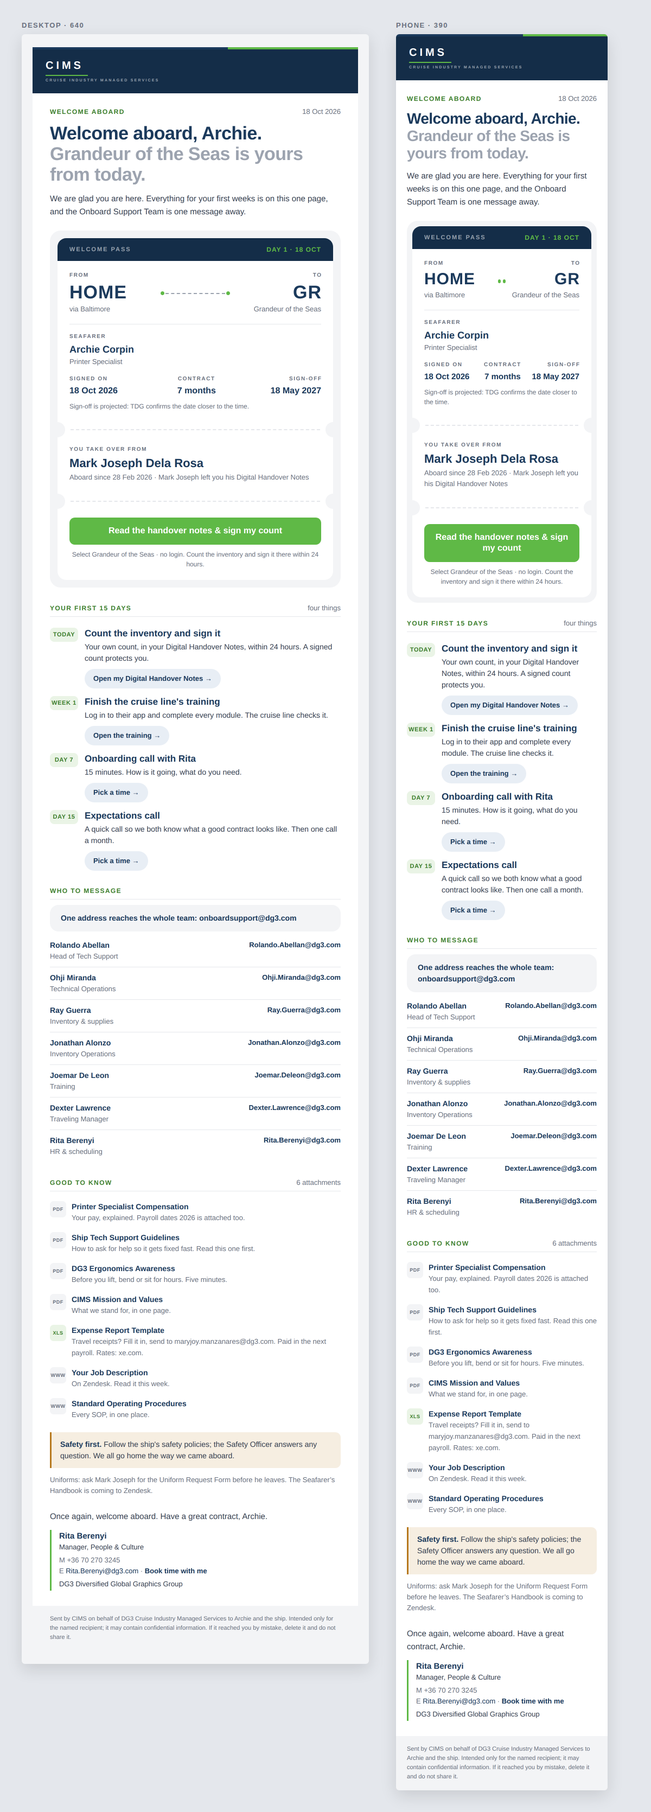
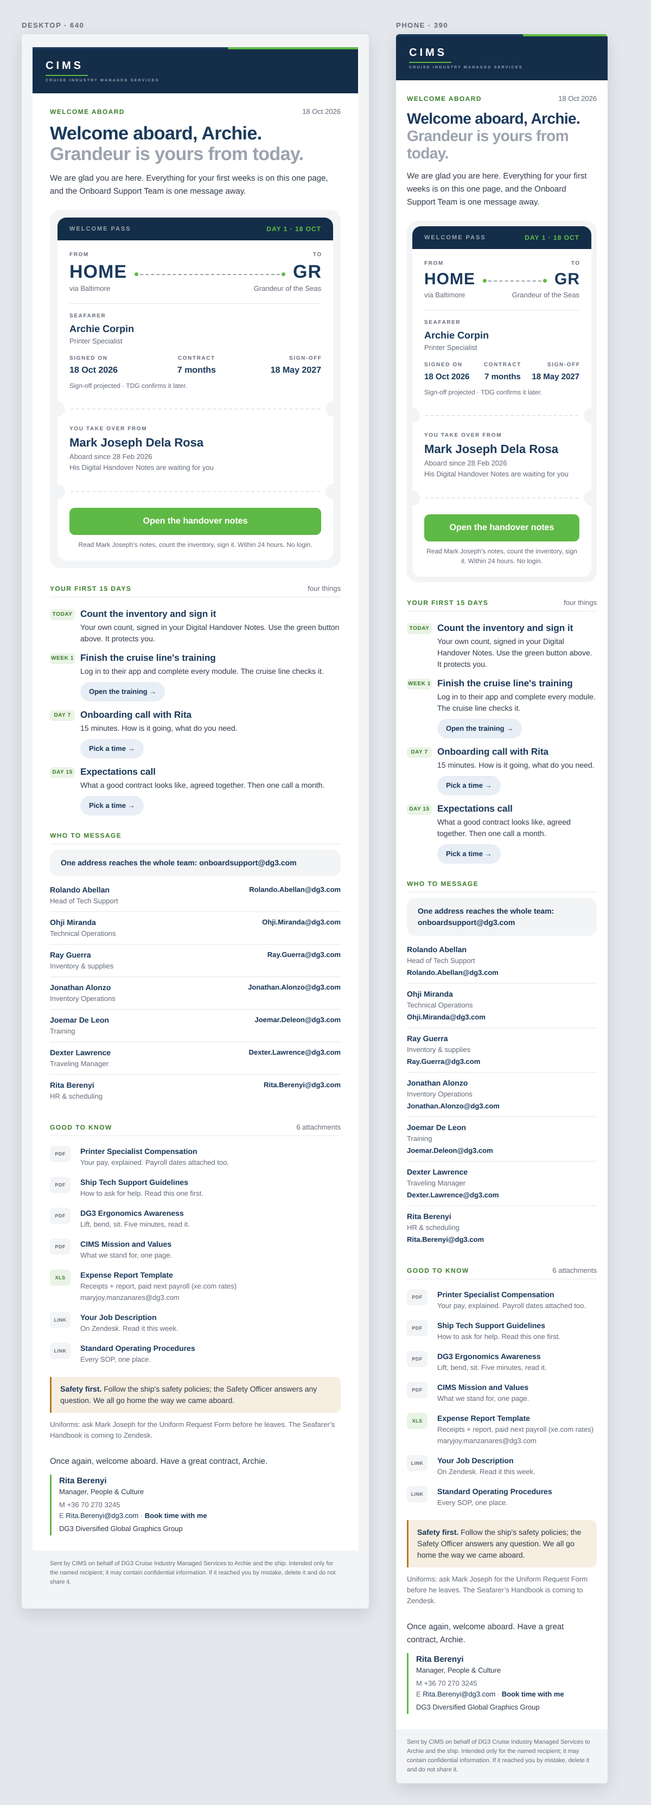
Welcome-aboard mock-up: second cut (route row, one column, phone stacking, shorter lines)
Claude-Session: https://claude.ai/code/session_01EuYojF5BUGVv2pCavfTq2y

diff --git a/docs/mockups/welcome_20261019/welcome.html b/docs/mockups/welcome_20261019/welcome.html
@@ -6,7 +6,7 @@
 <style>
  body{margin:0;padding:0;width:100%!important}table{border-collapse:collapse}
  a[x-apple-data-detectors]{color:inherit!important;text-decoration:none!important}
- @media only screen and (max-width:600px){.frame{padding:0!important}.px{padding-left:20px!important;padding-right:20px!important}.h1{font-size:28px!important;line-height:32px!important}.passpad{padding:10px!important}.code{font-size:30px!important;line-height:36px!important}.pf .pv{font-size:15px!important}.rside{width:44%!important}.rmid{width:12%!important}}
+ @media only screen and (max-width:600px){.frame{padding:0!important}.px{padding-left:20px!important;padding-right:20px!important}.h1{font-size:28px!important;line-height:32px!important}.passpad{padding:10px!important}.code{font-size:30px!important;line-height:36px!important}.pf .pv{font-size:15px!important}.pn,.pe{display:block!important;width:100%!important;text-align:left!important;padding:0!important}.pe{padding-top:2px!important}}
 </style></head>
 <body style="margin:0;padding:0;background:#F3F4F6;-webkit-text-size-adjust:100%;">
 <div style="display:none;max-height:0;overflow:hidden;mso-hide:all;font-size:1px;line-height:1px;color:#F3F4F6;">Welcome aboard Grandeur of the Seas, Archie. Your first 15 days, who to message, and what to read.</div>
@@ -28,7 +28,7 @@
  <table role="presentation" width="100%" cellpadding="0" cellspacing="0" border="0"><tr>
   <td style="font-family:'DM Sans',Helvetica,Arial,sans-serif;font-size:12px;font-weight:700;letter-spacing:1.4px;color:#3E7F2E;">WELCOME ABOARD</td>
   <td align="right" style="font-family:'DM Sans',Helvetica,Arial,sans-serif;font-size:13px;color:#6B7280;">18 Oct 2026</td></tr></table>
- <div class="h1" style="font-family:'Outfit',Helvetica,Arial,sans-serif;font-size:34px;font-weight:600;letter-spacing:-0.6px;line-height:38px;color:#1B3A5C;padding-top:14px;">Welcome aboard, Archie.<br><span style="color:#9CA3AF;">Grandeur of the Seas is yours from today.</span></div>
+ <div class="h1" style="font-family:'Outfit',Helvetica,Arial,sans-serif;font-size:34px;font-weight:600;letter-spacing:-0.6px;line-height:38px;color:#1B3A5C;padding-top:14px;">Welcome aboard, Archie.<br><span style="color:#9CA3AF;">Grandeur is yours from today.</span></div>
  <div style="font-family:'DM Sans',Helvetica,Arial,sans-serif;font-size:15px;line-height:24px;color:#374151;padding-top:14px;">We are glad you are here. Everything for your first weeks is on this one page, and the Onboard Support Team is one message away.</div>
 </td></tr>
 <tr><td class="px" style="padding:22px 32px 0 32px;">
@@ -39,16 +39,17 @@
     <td style="font-family:'DM Sans',Helvetica,Arial,sans-serif;font-size:11px;font-weight:700;letter-spacing:2px;line-height:16px;color:#95A0AD;">WELCOME PASS</td>
     <td align="right" style="font-family:'DM Sans',Helvetica,Arial,sans-serif;font-size:12px;font-weight:700;letter-spacing:1px;line-height:16px;color:#5FB946;white-space:nowrap;padding-left:14px;">DAY 1 &middot; 18 OCT</td></tr></table></td></tr>
   <tr><td style="padding:20px 22px 0 22px;">
-   <table role="presentation" width="100%" cellpadding="0" cellspacing="0" border="0"><tr>
-    <td class="rside" width="34%" valign="top"><div style="font-family:'DM Sans',Helvetica,Arial,sans-serif;font-size:10px;font-weight:700;letter-spacing:1.6px;color:#6B7280;text-transform:uppercase;line-height:14px;">From</div><div class="code" style="font-family:'Outfit',Helvetica,Arial,sans-serif;font-size:34px;font-weight:700;letter-spacing:1px;color:#1B3A5C;line-height:40px;padding-top:4px;white-space:nowrap;">HOME</div><div style="font-family:'DM Sans',Helvetica,Arial,sans-serif;font-size:13px;line-height:18px;color:#6B7280;padding-top:2px;">via Baltimore</div></td>
-    <td class="rmid" width="32%" valign="top" style="padding:0 10px;"><table role="presentation" width="100%" cellpadding="0" cellspacing="0" border="0" style="margin-top:36px;"><tr><td width="7" height="7" bgcolor="#5FB946" style="background:#5FB946;border-radius:4px;font-size:0;line-height:0;">&nbsp;</td><td style="padding:0 2px;"><div style="border-top:2px dashed #9CA3AF;font-size:0;line-height:0;">&nbsp;</div></td><td width="7" height="7" bgcolor="#5FB946" style="background:#5FB946;border-radius:4px;font-size:0;line-height:0;">&nbsp;</td></tr></table></td>
-    <td class="rside" width="34%" valign="top" align="right" style="text-align:right;"><div style="font-family:'DM Sans',Helvetica,Arial,sans-serif;font-size:10px;font-weight:700;letter-spacing:1.6px;color:#6B7280;text-transform:uppercase;line-height:14px;margin-right:-1.6px;">To</div><div class="code" style="font-family:'Outfit',Helvetica,Arial,sans-serif;font-size:34px;font-weight:700;letter-spacing:1px;color:#1B3A5C;line-height:40px;padding-top:4px;white-space:nowrap;margin-right:-1px;">GR</div><div style="font-family:'DM Sans',Helvetica,Arial,sans-serif;font-size:13px;line-height:18px;color:#6B7280;padding-top:2px;">Grandeur of the Seas</div></td>
-   </tr></table></td></tr>
+   <table role="presentation" width="100%" cellpadding="0" cellspacing="0" border="0">
+    <tr><td width="1%" valign="bottom" style="white-space:nowrap;"><div style="font-family:'DM Sans',Helvetica,Arial,sans-serif;font-size:10px;font-weight:700;letter-spacing:1.6px;color:#6B7280;text-transform:uppercase;line-height:14px;">From</div><div class="code" style="font-family:'Outfit',Helvetica,Arial,sans-serif;font-size:34px;font-weight:700;letter-spacing:1px;color:#1B3A5C;line-height:40px;padding-top:4px;white-space:nowrap;">HOME</div></td>
+     <td valign="bottom" style="padding:0 14px 12px 14px;"><table role="presentation" width="100%" cellpadding="0" cellspacing="0" border="0"><tr><td width="7" height="7" bgcolor="#5FB946" style="background:#5FB946;border-radius:4px;font-size:0;line-height:0;">&nbsp;</td><td style="padding:0 3px;"><div style="border-top:2px dashed #9CA3AF;font-size:0;line-height:0;">&nbsp;</div></td><td width="7" height="7" bgcolor="#5FB946" style="background:#5FB946;border-radius:4px;font-size:0;line-height:0;">&nbsp;</td></tr></table></td>
+     <td width="1%" valign="bottom" align="right" style="text-align:right;white-space:nowrap;"><div style="font-family:'DM Sans',Helvetica,Arial,sans-serif;font-size:10px;font-weight:700;letter-spacing:1.6px;color:#6B7280;text-transform:uppercase;line-height:14px;margin-right:-1.6px;">To</div><div class="code" style="font-family:'Outfit',Helvetica,Arial,sans-serif;font-size:34px;font-weight:700;letter-spacing:1px;color:#1B3A5C;line-height:40px;padding-top:4px;white-space:nowrap;margin-right:-1px;">GR</div></td></tr>
+    <tr><td colspan="3" valign="top"><table role="presentation" width="100%" cellpadding="0" cellspacing="0" border="0"><tr><td valign="top"><div style="font-family:'DM Sans',Helvetica,Arial,sans-serif;font-size:13px;line-height:18px;color:#6B7280;padding-top:2px;">via Baltimore</div></td><td valign="top" align="right" style="text-align:right;padding-left:12px;"><div style="font-family:'DM Sans',Helvetica,Arial,sans-serif;font-size:13px;line-height:18px;color:#6B7280;padding-top:2px;">Grandeur of the Seas</div></td></tr></table></td></tr>
+   </table></td></tr>
   <tr><td style="padding:18px 22px 0 22px;"><div style="border-top:1px solid #E5E7EB;font-size:0;line-height:0;">&nbsp;</div></td></tr>
   <tr><td style="padding:16px 22px 0 22px;"><div style="font-family:'DM Sans',Helvetica,Arial,sans-serif;font-size:10px;font-weight:700;letter-spacing:1.6px;color:#6B7280;text-transform:uppercase;line-height:14px;">Seafarer</div><div style="font-family:'Outfit',Helvetica,Arial,sans-serif;font-size:18px;font-weight:600;color:#1B3A5C;line-height:24px;padding-top:4px;">Archie Corpin</div><div style="font-family:'DM Sans',Helvetica,Arial,sans-serif;font-size:13px;line-height:18px;color:#6B7280;padding-top:2px;">Printer Specialist</div></td></tr>
   <tr><td style="padding:16px 22px 20px 22px;">
    <table role="presentation" width="100%" cellpadding="0" cellspacing="0" border="0"><tr><td class="pf" width="34%" valign="top" align="left" style="text-align:left;padding:0;"><div style="font-family:'DM Sans',Helvetica,Arial,sans-serif;font-size:10px;font-weight:700;letter-spacing:1.6px;color:#6B7280;text-transform:uppercase;line-height:14px;">Signed on</div><div class="pv" style="font-family:'Outfit',Helvetica,Arial,sans-serif;font-size:16px;font-weight:600;color:#1B3A5C;line-height:22px;padding-top:4px;">18 Oct 2026</div></td><td class="pf" width="33%" valign="top" align="center" style="text-align:center;padding:0;"><div style="font-family:'DM Sans',Helvetica,Arial,sans-serif;font-size:10px;font-weight:700;letter-spacing:1.6px;color:#6B7280;text-transform:uppercase;line-height:14px;">Contract</div><div class="pv" style="font-family:'Outfit',Helvetica,Arial,sans-serif;font-size:16px;font-weight:600;color:#1B3A5C;line-height:22px;padding-top:4px;">7 months</div></td><td class="pf" width="33%" valign="top" align="right" style="text-align:right;padding:0;"><div style="font-family:'DM Sans',Helvetica,Arial,sans-serif;font-size:10px;font-weight:700;letter-spacing:1.6px;color:#6B7280;text-transform:uppercase;line-height:14px;margin-right:-1.6px;">Sign-off</div><div class="pv" style="font-family:'Outfit',Helvetica,Arial,sans-serif;font-size:16px;font-weight:600;color:#1B3A5C;line-height:22px;padding-top:4px;">18 May 2027</div></td></tr></table>
-   <div style="font-family:'DM Sans',Helvetica,Arial,sans-serif;font-size:12px;line-height:18px;color:#6B7280;padding-top:8px;">Sign-off is projected: TDG confirms the date closer to the time.</div></td></tr>
+   <div style="font-family:'DM Sans',Helvetica,Arial,sans-serif;font-size:12px;line-height:18px;color:#6B7280;padding-top:8px;">Sign-off projected &middot; TDG confirms it later.</div></td></tr>
   <tr><td style="padding:0;"><table role="presentation" width="100%" cellpadding="0" cellspacing="0" border="0"><tr>
  <td width="14" height="28" bgcolor="#F3F4F6" style="background:#F3F4F6;font-size:0;line-height:0;border-radius:0 14px 14px 0;">&nbsp;</td>
  <td style="padding:0 10px;"><div style="border-top:2px dashed #E5E7EB;font-size:0;line-height:0;">&nbsp;</div></td>
@@ -56,14 +57,14 @@
   <tr><td style="padding:16px 22px 20px 22px;">
    <table role="presentation" width="100%" cellpadding="0" cellspacing="0" border="0"><tr>
     <td valign="top"><div style="font-family:'DM Sans',Helvetica,Arial,sans-serif;font-size:10px;font-weight:700;letter-spacing:1.6px;color:#6B7280;text-transform:uppercase;line-height:14px;">You take over from</div><div style="font-family:'Outfit',Helvetica,Arial,sans-serif;font-size:22px;font-weight:600;color:#1B3A5C;line-height:28px;padding-top:4px;">Mark Joseph Dela Rosa</div>
-     <div style="font-family:'DM Sans',Helvetica,Arial,sans-serif;font-size:13px;line-height:20px;color:#6B7280;padding-top:2px;">Aboard since 28 Feb 2026 &middot; Mark Joseph left you his Digital Handover Notes</div></td>
+     <div style="font-family:'DM Sans',Helvetica,Arial,sans-serif;font-size:13px;line-height:20px;color:#6B7280;padding-top:2px;">Aboard since 28 Feb 2026<br>His Digital Handover Notes are waiting for you</div></td>
    </tr></table></td></tr>
   <tr><td style="padding:0;"><table role="presentation" width="100%" cellpadding="0" cellspacing="0" border="0"><tr>
  <td width="14" height="28" bgcolor="#F3F4F6" style="background:#F3F4F6;font-size:0;line-height:0;border-radius:0 14px 14px 0;">&nbsp;</td>
  <td style="padding:0 10px;"><div style="border-top:2px dashed #E5E7EB;font-size:0;line-height:0;">&nbsp;</div></td>
  <td width="14" height="28" bgcolor="#F3F4F6" style="background:#F3F4F6;font-size:0;line-height:0;border-radius:14px 0 0 14px;">&nbsp;</td></tr></table></td></tr>
-  <tr><td align="center" style="padding:16px 22px 20px 22px;"><table role="presentation" width="100%" cellpadding="0" cellspacing="0" border="0"><tr><td align="center" bgcolor="#5FB946" style="background:#5FB946;border-radius:10px;"><a href="https://hon.cims.work" target="_blank" style="display:block;font-family:'DM Sans',Helvetica,Arial,sans-serif;font-size:16px;font-weight:700;line-height:20px;color:#FFFFFF;text-decoration:none;padding:15px 12px;border-radius:10px;">Read the handover notes & sign my count</a></td></tr></table>
-   <div style="font-family:'DM Sans',Helvetica,Arial,sans-serif;font-size:12px;line-height:18px;color:#6B7280;padding-top:9px;">Select Grandeur of the Seas &middot; no login. Count the inventory and sign it there within 24 hours.</div></td></tr>
+  <tr><td align="center" style="padding:16px 22px 20px 22px;"><table role="presentation" width="100%" cellpadding="0" cellspacing="0" border="0"><tr><td align="center" bgcolor="#5FB946" style="background:#5FB946;border-radius:10px;"><a href="https://hon.cims.work" target="_blank" style="display:block;font-family:'DM Sans',Helvetica,Arial,sans-serif;font-size:16px;font-weight:700;line-height:20px;color:#FFFFFF;text-decoration:none;padding:15px 12px;border-radius:10px;">Open the handover notes</a></td></tr></table>
+   <div style="font-family:'DM Sans',Helvetica,Arial,sans-serif;font-size:12px;line-height:18px;color:#6B7280;padding-top:9px;">Read Mark Joseph&rsquo;s notes, count the inventory, sign it. Within 24 hours. No login.</div></td></tr>
  </table></td></tr></table></td></tr>
 
 <tr><td class="px" style="padding:30px 32px 6px 32px;">
@@ -73,27 +74,27 @@
   <tr><td colspan="2" style="padding-top:8px;"><div style="border-top:1px solid #E5E7EB;font-size:0;line-height:0;">&nbsp;</div></td></tr></table></td></tr>
 <tr><td class="px" style="padding:14px 32px 0 32px;">
  <table role="presentation" width="100%" cellpadding="0" cellspacing="0" border="0"><tr>
-  <td width="64" valign="top"><table role="presentation" cellpadding="0" cellspacing="0" border="0"><tr><td align="center" bgcolor="#EAF4E6" style="background:#EAF4E6;border-radius:8px;padding:6px 0;width:52px;font-family:'DM Sans',Helvetica,Arial,sans-serif;font-size:11px;font-weight:700;letter-spacing:0.6px;color:#3E7F2E;line-height:14px;">TODAY</td></tr></table></td>
+  <td width="56" valign="top" style="padding-top:2px;"><table role="presentation" cellpadding="0" cellspacing="0" border="0"><tr><td align="center" bgcolor="#EAF4E6" style="background:#EAF4E6;border-radius:6px;padding:3px 0;width:46px;font-family:'DM Sans',Helvetica,Arial,sans-serif;font-size:10px;font-weight:700;letter-spacing:0.6px;color:#3E7F2E;line-height:14px;">TODAY</td></tr></table></td>
   <td valign="top"><div style="font-family:'Outfit',Helvetica,Arial,sans-serif;font-size:17px;font-weight:600;color:#1B3A5C;line-height:22px;">Count the inventory and sign it</div>
-   <div style="font-family:'DM Sans',Helvetica,Arial,sans-serif;font-size:14px;line-height:21px;color:#374151;padding-top:3px;">Your own count, in your Digital Handover Notes, within 24 hours. A signed count protects you.</div><div style="padding-top:9px;"><table role="presentation" cellpadding="0" cellspacing="0" border="0"><tr><td align="center" bgcolor="#E8EEF5" style="background:#E8EEF5;border-radius:999px;"><a href="https://hon.cims.work" target="_blank" style="display:inline-block;font-family:'DM Sans',Helvetica,Arial,sans-serif;font-size:13px;font-weight:700;line-height:18px;color:#1B3A5C;text-decoration:none;padding:9px 16px;border-radius:999px;">Open my Digital Handover Notes &rarr;</a></td></tr></table></div></td>
+   <div style="font-family:'DM Sans',Helvetica,Arial,sans-serif;font-size:14px;line-height:21px;color:#374151;padding-top:3px;">Your own count, signed in your Digital Handover Notes. Use the green button above. It protects you.</div></td>
  </tr></table></td></tr>
 <tr><td class="px" style="padding:14px 32px 0 32px;">
  <table role="presentation" width="100%" cellpadding="0" cellspacing="0" border="0"><tr>
-  <td width="64" valign="top"><table role="presentation" cellpadding="0" cellspacing="0" border="0"><tr><td align="center" bgcolor="#EAF4E6" style="background:#EAF4E6;border-radius:8px;padding:6px 0;width:52px;font-family:'DM Sans',Helvetica,Arial,sans-serif;font-size:11px;font-weight:700;letter-spacing:0.6px;color:#3E7F2E;line-height:14px;">WEEK 1</td></tr></table></td>
+  <td width="56" valign="top" style="padding-top:2px;"><table role="presentation" cellpadding="0" cellspacing="0" border="0"><tr><td align="center" bgcolor="#EAF4E6" style="background:#EAF4E6;border-radius:6px;padding:3px 0;width:46px;font-family:'DM Sans',Helvetica,Arial,sans-serif;font-size:10px;font-weight:700;letter-spacing:0.6px;color:#3E7F2E;line-height:14px;">WEEK 1</td></tr></table></td>
   <td valign="top"><div style="font-family:'Outfit',Helvetica,Arial,sans-serif;font-size:17px;font-weight:600;color:#1B3A5C;line-height:22px;">Finish the cruise line's training</div>
    <div style="font-family:'DM Sans',Helvetica,Arial,sans-serif;font-size:14px;line-height:21px;color:#374151;padding-top:3px;">Log in to their app and complete every module. The cruise line checks it.</div><div style="padding-top:9px;"><table role="presentation" cellpadding="0" cellspacing="0" border="0"><tr><td align="center" bgcolor="#E8EEF5" style="background:#E8EEF5;border-radius:999px;"><a href="#LINK-training" target="_blank" style="display:inline-block;font-family:'DM Sans',Helvetica,Arial,sans-serif;font-size:13px;font-weight:700;line-height:18px;color:#1B3A5C;text-decoration:none;padding:9px 16px;border-radius:999px;">Open the training &rarr;</a></td></tr></table></div></td>
  </tr></table></td></tr>
 <tr><td class="px" style="padding:14px 32px 0 32px;">
  <table role="presentation" width="100%" cellpadding="0" cellspacing="0" border="0"><tr>
-  <td width="64" valign="top"><table role="presentation" cellpadding="0" cellspacing="0" border="0"><tr><td align="center" bgcolor="#EAF4E6" style="background:#EAF4E6;border-radius:8px;padding:6px 0;width:52px;font-family:'DM Sans',Helvetica,Arial,sans-serif;font-size:11px;font-weight:700;letter-spacing:0.6px;color:#3E7F2E;line-height:14px;">DAY 7</td></tr></table></td>
+  <td width="56" valign="top" style="padding-top:2px;"><table role="presentation" cellpadding="0" cellspacing="0" border="0"><tr><td align="center" bgcolor="#EAF4E6" style="background:#EAF4E6;border-radius:6px;padding:3px 0;width:46px;font-family:'DM Sans',Helvetica,Arial,sans-serif;font-size:10px;font-weight:700;letter-spacing:0.6px;color:#3E7F2E;line-height:14px;">DAY 7</td></tr></table></td>
   <td valign="top"><div style="font-family:'Outfit',Helvetica,Arial,sans-serif;font-size:17px;font-weight:600;color:#1B3A5C;line-height:22px;">Onboarding call with Rita</div>
    <div style="font-family:'DM Sans',Helvetica,Arial,sans-serif;font-size:14px;line-height:21px;color:#374151;padding-top:3px;">15 minutes. How is it going, what do you need.</div><div style="padding-top:9px;"><table role="presentation" cellpadding="0" cellspacing="0" border="0"><tr><td align="center" bgcolor="#E8EEF5" style="background:#E8EEF5;border-radius:999px;"><a href="#LINK-schedule-7d" target="_blank" style="display:inline-block;font-family:'DM Sans',Helvetica,Arial,sans-serif;font-size:13px;font-weight:700;line-height:18px;color:#1B3A5C;text-decoration:none;padding:9px 16px;border-radius:999px;">Pick a time &rarr;</a></td></tr></table></div></td>
  </tr></table></td></tr>
 <tr><td class="px" style="padding:14px 32px 0 32px;">
  <table role="presentation" width="100%" cellpadding="0" cellspacing="0" border="0"><tr>
-  <td width="64" valign="top"><table role="presentation" cellpadding="0" cellspacing="0" border="0"><tr><td align="center" bgcolor="#EAF4E6" style="background:#EAF4E6;border-radius:8px;padding:6px 0;width:52px;font-family:'DM Sans',Helvetica,Arial,sans-serif;font-size:11px;font-weight:700;letter-spacing:0.6px;color:#3E7F2E;line-height:14px;">DAY 15</td></tr></table></td>
+  <td width="56" valign="top" style="padding-top:2px;"><table role="presentation" cellpadding="0" cellspacing="0" border="0"><tr><td align="center" bgcolor="#EAF4E6" style="background:#EAF4E6;border-radius:6px;padding:3px 0;width:46px;font-family:'DM Sans',Helvetica,Arial,sans-serif;font-size:10px;font-weight:700;letter-spacing:0.6px;color:#3E7F2E;line-height:14px;">DAY 15</td></tr></table></td>
   <td valign="top"><div style="font-family:'Outfit',Helvetica,Arial,sans-serif;font-size:17px;font-weight:600;color:#1B3A5C;line-height:22px;">Expectations call</div>
-   <div style="font-family:'DM Sans',Helvetica,Arial,sans-serif;font-size:14px;line-height:21px;color:#374151;padding-top:3px;">A quick call so we both know what a good contract looks like. Then one call a month.</div><div style="padding-top:9px;"><table role="presentation" cellpadding="0" cellspacing="0" border="0"><tr><td align="center" bgcolor="#E8EEF5" style="background:#E8EEF5;border-radius:999px;"><a href="#LINK-schedule-15d" target="_blank" style="display:inline-block;font-family:'DM Sans',Helvetica,Arial,sans-serif;font-size:13px;font-weight:700;line-height:18px;color:#1B3A5C;text-decoration:none;padding:9px 16px;border-radius:999px;">Pick a time &rarr;</a></td></tr></table></div></td>
+   <div style="font-family:'DM Sans',Helvetica,Arial,sans-serif;font-size:14px;line-height:21px;color:#374151;padding-top:3px;">What a good contract looks like, agreed together. Then one call a month.</div><div style="padding-top:9px;"><table role="presentation" cellpadding="0" cellspacing="0" border="0"><tr><td align="center" bgcolor="#E8EEF5" style="background:#E8EEF5;border-radius:999px;"><a href="#LINK-schedule-15d" target="_blank" style="display:inline-block;font-family:'DM Sans',Helvetica,Arial,sans-serif;font-size:13px;font-weight:700;line-height:18px;color:#1B3A5C;text-decoration:none;padding:9px 16px;border-radius:999px;">Pick a time &rarr;</a></td></tr></table></div></td>
  </tr></table></td></tr>
 
 <tr><td class="px" style="padding:30px 32px 6px 32px;">
@@ -108,38 +109,38 @@
  <table role="presentation" width="100%" cellpadding="0" cellspacing="0" border="0" style="margin-top:6px;">
   <tr><td style="padding:9px 0;border-bottom:1px solid #E5E7EB;">
  <table role="presentation" width="100%" cellpadding="0" cellspacing="0" border="0"><tr>
-  <td valign="top" style="font-family:'DM Sans',Helvetica,Arial,sans-serif;font-size:14px;line-height:20px;color:#374151;"><b style="color:#1B3A5C;">Rolando Abellan</b><br><span style="font-size:13px;color:#6B7280;">Head of Tech Support</span></td>
-  <td valign="top" align="right" style="font-family:'DM Sans',Helvetica,Arial,sans-serif;font-size:13px;line-height:20px;white-space:nowrap;padding-left:12px;"><a href="mailto:Rolando.Abellan@dg3.com" style="color:#1B3A5C;font-weight:700;text-decoration:none;">Rolando.Abellan<wbr>@dg3.com</a></td>
+  <td class="pn" valign="top" style="font-family:'DM Sans',Helvetica,Arial,sans-serif;font-size:14px;line-height:20px;color:#374151;"><b style="color:#1B3A5C;">Rolando Abellan</b><br><span style="font-size:13px;color:#6B7280;">Head of Tech Support</span></td>
+  <td class="pe" valign="top" align="right" style="font-family:'DM Sans',Helvetica,Arial,sans-serif;font-size:13px;line-height:20px;white-space:nowrap;padding-left:12px;"><a href="mailto:Rolando.Abellan@dg3.com" style="color:#1B3A5C;font-weight:700;text-decoration:none;">Rolando.Abellan<wbr>@dg3.com</a></td>
  </tr></table></td></tr>
   <tr><td style="padding:9px 0;border-bottom:1px solid #E5E7EB;">
  <table role="presentation" width="100%" cellpadding="0" cellspacing="0" border="0"><tr>
-  <td valign="top" style="font-family:'DM Sans',Helvetica,Arial,sans-serif;font-size:14px;line-height:20px;color:#374151;"><b style="color:#1B3A5C;">Ohji Miranda</b><br><span style="font-size:13px;color:#6B7280;">Technical Operations</span></td>
-  <td valign="top" align="right" style="font-family:'DM Sans',Helvetica,Arial,sans-serif;font-size:13px;line-height:20px;white-space:nowrap;padding-left:12px;"><a href="mailto:Ohji.Miranda@dg3.com" style="color:#1B3A5C;font-weight:700;text-decoration:none;">Ohji.Miranda<wbr>@dg3.com</a></td>
+  <td class="pn" valign="top" style="font-family:'DM Sans',Helvetica,Arial,sans-serif;font-size:14px;line-height:20px;color:#374151;"><b style="color:#1B3A5C;">Ohji Miranda</b><br><span style="font-size:13px;color:#6B7280;">Technical Operations</span></td>
+  <td class="pe" valign="top" align="right" style="font-family:'DM Sans',Helvetica,Arial,sans-serif;font-size:13px;line-height:20px;white-space:nowrap;padding-left:12px;"><a href="mailto:Ohji.Miranda@dg3.com" style="color:#1B3A5C;font-weight:700;text-decoration:none;">Ohji.Miranda<wbr>@dg3.com</a></td>
  </tr></table></td></tr>
   <tr><td style="padding:9px 0;border-bottom:1px solid #E5E7EB;">
  <table role="presentation" width="100%" cellpadding="0" cellspacing="0" border="0"><tr>
-  <td valign="top" style="font-family:'DM Sans',Helvetica,Arial,sans-serif;font-size:14px;line-height:20px;color:#374151;"><b style="color:#1B3A5C;">Ray Guerra</b><br><span style="font-size:13px;color:#6B7280;">Inventory &amp; supplies</span></td>
-  <td valign="top" align="right" style="font-family:'DM Sans',Helvetica,Arial,sans-serif;font-size:13px;line-height:20px;white-space:nowrap;padding-left:12px;"><a href="mailto:Ray.Guerra@dg3.com" style="color:#1B3A5C;font-weight:700;text-decoration:none;">Ray.Guerra<wbr>@dg3.com</a></td>
+  <td class="pn" valign="top" style="font-family:'DM Sans',Helvetica,Arial,sans-serif;font-size:14px;line-height:20px;color:#374151;"><b style="color:#1B3A5C;">Ray Guerra</b><br><span style="font-size:13px;color:#6B7280;">Inventory &amp; supplies</span></td>
+  <td class="pe" valign="top" align="right" style="font-family:'DM Sans',Helvetica,Arial,sans-serif;font-size:13px;line-height:20px;white-space:nowrap;padding-left:12px;"><a href="mailto:Ray.Guerra@dg3.com" style="color:#1B3A5C;font-weight:700;text-decoration:none;">Ray.Guerra<wbr>@dg3.com</a></td>
  </tr></table></td></tr>
   <tr><td style="padding:9px 0;border-bottom:1px solid #E5E7EB;">
  <table role="presentation" width="100%" cellpadding="0" cellspacing="0" border="0"><tr>
-  <td valign="top" style="font-family:'DM Sans',Helvetica,Arial,sans-serif;font-size:14px;line-height:20px;color:#374151;"><b style="color:#1B3A5C;">Jonathan Alonzo</b><br><span style="font-size:13px;color:#6B7280;">Inventory Operations</span></td>
-  <td valign="top" align="right" style="font-family:'DM Sans',Helvetica,Arial,sans-serif;font-size:13px;line-height:20px;white-space:nowrap;padding-left:12px;"><a href="mailto:Jonathan.Alonzo@dg3.com" style="color:#1B3A5C;font-weight:700;text-decoration:none;">Jonathan.Alonzo<wbr>@dg3.com</a></td>
+  <td class="pn" valign="top" style="font-family:'DM Sans',Helvetica,Arial,sans-serif;font-size:14px;line-height:20px;color:#374151;"><b style="color:#1B3A5C;">Jonathan Alonzo</b><br><span style="font-size:13px;color:#6B7280;">Inventory Operations</span></td>
+  <td class="pe" valign="top" align="right" style="font-family:'DM Sans',Helvetica,Arial,sans-serif;font-size:13px;line-height:20px;white-space:nowrap;padding-left:12px;"><a href="mailto:Jonathan.Alonzo@dg3.com" style="color:#1B3A5C;font-weight:700;text-decoration:none;">Jonathan.Alonzo<wbr>@dg3.com</a></td>
  </tr></table></td></tr>
   <tr><td style="padding:9px 0;border-bottom:1px solid #E5E7EB;">
  <table role="presentation" width="100%" cellpadding="0" cellspacing="0" border="0"><tr>
-  <td valign="top" style="font-family:'DM Sans',Helvetica,Arial,sans-serif;font-size:14px;line-height:20px;color:#374151;"><b style="color:#1B3A5C;">Joemar De Leon</b><br><span style="font-size:13px;color:#6B7280;">Training</span></td>
-  <td valign="top" align="right" style="font-family:'DM Sans',Helvetica,Arial,sans-serif;font-size:13px;line-height:20px;white-space:nowrap;padding-left:12px;"><a href="mailto:Joemar.Deleon@dg3.com" style="color:#1B3A5C;font-weight:700;text-decoration:none;">Joemar.Deleon<wbr>@dg3.com</a></td>
+  <td class="pn" valign="top" style="font-family:'DM Sans',Helvetica,Arial,sans-serif;font-size:14px;line-height:20px;color:#374151;"><b style="color:#1B3A5C;">Joemar De Leon</b><br><span style="font-size:13px;color:#6B7280;">Training</span></td>
+  <td class="pe" valign="top" align="right" style="font-family:'DM Sans',Helvetica,Arial,sans-serif;font-size:13px;line-height:20px;white-space:nowrap;padding-left:12px;"><a href="mailto:Joemar.Deleon@dg3.com" style="color:#1B3A5C;font-weight:700;text-decoration:none;">Joemar.Deleon<wbr>@dg3.com</a></td>
  </tr></table></td></tr>
   <tr><td style="padding:9px 0;border-bottom:1px solid #E5E7EB;">
  <table role="presentation" width="100%" cellpadding="0" cellspacing="0" border="0"><tr>
-  <td valign="top" style="font-family:'DM Sans',Helvetica,Arial,sans-serif;font-size:14px;line-height:20px;color:#374151;"><b style="color:#1B3A5C;">Dexter Lawrence</b><br><span style="font-size:13px;color:#6B7280;">Traveling Manager</span></td>
-  <td valign="top" align="right" style="font-family:'DM Sans',Helvetica,Arial,sans-serif;font-size:13px;line-height:20px;white-space:nowrap;padding-left:12px;"><a href="mailto:Dexter.Lawrence@dg3.com" style="color:#1B3A5C;font-weight:700;text-decoration:none;">Dexter.Lawrence<wbr>@dg3.com</a></td>
+  <td class="pn" valign="top" style="font-family:'DM Sans',Helvetica,Arial,sans-serif;font-size:14px;line-height:20px;color:#374151;"><b style="color:#1B3A5C;">Dexter Lawrence</b><br><span style="font-size:13px;color:#6B7280;">Traveling Manager</span></td>
+  <td class="pe" valign="top" align="right" style="font-family:'DM Sans',Helvetica,Arial,sans-serif;font-size:13px;line-height:20px;white-space:nowrap;padding-left:12px;"><a href="mailto:Dexter.Lawrence@dg3.com" style="color:#1B3A5C;font-weight:700;text-decoration:none;">Dexter.Lawrence<wbr>@dg3.com</a></td>
  </tr></table></td></tr>
   <tr><td style="padding:9px 0;">
  <table role="presentation" width="100%" cellpadding="0" cellspacing="0" border="0"><tr>
-  <td valign="top" style="font-family:'DM Sans',Helvetica,Arial,sans-serif;font-size:14px;line-height:20px;color:#374151;"><b style="color:#1B3A5C;">Rita Berenyi</b><br><span style="font-size:13px;color:#6B7280;">HR &amp; scheduling</span></td>
-  <td valign="top" align="right" style="font-family:'DM Sans',Helvetica,Arial,sans-serif;font-size:13px;line-height:20px;white-space:nowrap;padding-left:12px;"><a href="mailto:Rita.Berenyi@dg3.com" style="color:#1B3A5C;font-weight:700;text-decoration:none;">Rita.Berenyi<wbr>@dg3.com</a></td>
+  <td class="pn" valign="top" style="font-family:'DM Sans',Helvetica,Arial,sans-serif;font-size:14px;line-height:20px;color:#374151;"><b style="color:#1B3A5C;">Rita Berenyi</b><br><span style="font-size:13px;color:#6B7280;">HR &amp; scheduling</span></td>
+  <td class="pe" valign="top" align="right" style="font-family:'DM Sans',Helvetica,Arial,sans-serif;font-size:13px;line-height:20px;white-space:nowrap;padding-left:12px;"><a href="mailto:Rita.Berenyi@dg3.com" style="color:#1B3A5C;font-weight:700;text-decoration:none;">Rita.Berenyi<wbr>@dg3.com</a></td>
  </tr></table></td></tr>
  </table></td></tr>
 
@@ -151,38 +152,38 @@
 <tr><td class="px" style="padding:4px 32px 0 32px;"><table role="presentation" width="100%" cellpadding="0" cellspacing="0" border="0">
  <tr><td style="padding:8px 0;">
  <table role="presentation" width="100%" cellpadding="0" cellspacing="0" border="0"><tr>
-  <td width="40" valign="top"><table role="presentation" cellpadding="0" cellspacing="0" border="0"><tr><td align="center" valign="middle" width="30" height="30" bgcolor="#F3F4F6" style="background:#F3F4F6;border-radius:7px;font-family:'DM Sans',Helvetica,Arial,sans-serif;font-size:9px;font-weight:700;letter-spacing:0.5px;color:#6B7280;">PDF</td></tr></table></td>
-  <td valign="top" style="font-family:'DM Sans',Helvetica,Arial,sans-serif;font-size:14px;line-height:20px;color:#374151;"><b style="color:#1B3A5C;">Printer Specialist Compensation</b><br><span style="font-size:13px;color:#6B7280;">Your pay, explained. Payroll dates 2026 is attached too.</span></td>
+  <td width="56" valign="top"><table role="presentation" cellpadding="0" cellspacing="0" border="0"><tr><td align="center" valign="middle" width="38" height="30" bgcolor="#F3F4F6" style="background:#F3F4F6;border-radius:7px;font-family:'DM Sans',Helvetica,Arial,sans-serif;font-size:9px;font-weight:700;letter-spacing:0.5px;color:#6B7280;">PDF</td></tr></table></td>
+  <td valign="top" style="font-family:'DM Sans',Helvetica,Arial,sans-serif;font-size:14px;line-height:20px;color:#374151;"><b style="color:#1B3A5C;">Printer Specialist Compensation</b><br><span style="font-size:13px;color:#6B7280;">Your pay, explained. Payroll dates attached too.</span></td>
  </tr></table></td></tr>
  <tr><td style="padding:8px 0;">
  <table role="presentation" width="100%" cellpadding="0" cellspacing="0" border="0"><tr>
-  <td width="40" valign="top"><table role="presentation" cellpadding="0" cellspacing="0" border="0"><tr><td align="center" valign="middle" width="30" height="30" bgcolor="#F3F4F6" style="background:#F3F4F6;border-radius:7px;font-family:'DM Sans',Helvetica,Arial,sans-serif;font-size:9px;font-weight:700;letter-spacing:0.5px;color:#6B7280;">PDF</td></tr></table></td>
-  <td valign="top" style="font-family:'DM Sans',Helvetica,Arial,sans-serif;font-size:14px;line-height:20px;color:#374151;"><b style="color:#1B3A5C;">Ship Tech Support Guidelines</b><br><span style="font-size:13px;color:#6B7280;">How to ask for help so it gets fixed fast. Read this one first.</span></td>
+  <td width="56" valign="top"><table role="presentation" cellpadding="0" cellspacing="0" border="0"><tr><td align="center" valign="middle" width="38" height="30" bgcolor="#F3F4F6" style="background:#F3F4F6;border-radius:7px;font-family:'DM Sans',Helvetica,Arial,sans-serif;font-size:9px;font-weight:700;letter-spacing:0.5px;color:#6B7280;">PDF</td></tr></table></td>
+  <td valign="top" style="font-family:'DM Sans',Helvetica,Arial,sans-serif;font-size:14px;line-height:20px;color:#374151;"><b style="color:#1B3A5C;">Ship Tech Support Guidelines</b><br><span style="font-size:13px;color:#6B7280;">How to ask for help. Read this one first.</span></td>
  </tr></table></td></tr>
  <tr><td style="padding:8px 0;">
  <table role="presentation" width="100%" cellpadding="0" cellspacing="0" border="0"><tr>
-  <td width="40" valign="top"><table role="presentation" cellpadding="0" cellspacing="0" border="0"><tr><td align="center" valign="middle" width="30" height="30" bgcolor="#F3F4F6" style="background:#F3F4F6;border-radius:7px;font-family:'DM Sans',Helvetica,Arial,sans-serif;font-size:9px;font-weight:700;letter-spacing:0.5px;color:#6B7280;">PDF</td></tr></table></td>
-  <td valign="top" style="font-family:'DM Sans',Helvetica,Arial,sans-serif;font-size:14px;line-height:20px;color:#374151;"><b style="color:#1B3A5C;">DG3 Ergonomics Awareness</b><br><span style="font-size:13px;color:#6B7280;">Before you lift, bend or sit for hours. Five minutes.</span></td>
+  <td width="56" valign="top"><table role="presentation" cellpadding="0" cellspacing="0" border="0"><tr><td align="center" valign="middle" width="38" height="30" bgcolor="#F3F4F6" style="background:#F3F4F6;border-radius:7px;font-family:'DM Sans',Helvetica,Arial,sans-serif;font-size:9px;font-weight:700;letter-spacing:0.5px;color:#6B7280;">PDF</td></tr></table></td>
+  <td valign="top" style="font-family:'DM Sans',Helvetica,Arial,sans-serif;font-size:14px;line-height:20px;color:#374151;"><b style="color:#1B3A5C;">DG3 Ergonomics Awareness</b><br><span style="font-size:13px;color:#6B7280;">Lift, bend, sit. Five minutes, read it.</span></td>
  </tr></table></td></tr>
  <tr><td style="padding:8px 0;">
  <table role="presentation" width="100%" cellpadding="0" cellspacing="0" border="0"><tr>
-  <td width="40" valign="top"><table role="presentation" cellpadding="0" cellspacing="0" border="0"><tr><td align="center" valign="middle" width="30" height="30" bgcolor="#F3F4F6" style="background:#F3F4F6;border-radius:7px;font-family:'DM Sans',Helvetica,Arial,sans-serif;font-size:9px;font-weight:700;letter-spacing:0.5px;color:#6B7280;">PDF</td></tr></table></td>
-  <td valign="top" style="font-family:'DM Sans',Helvetica,Arial,sans-serif;font-size:14px;line-height:20px;color:#374151;"><b style="color:#1B3A5C;">CIMS Mission and Values</b><br><span style="font-size:13px;color:#6B7280;">What we stand for, in one page.</span></td>
+  <td width="56" valign="top"><table role="presentation" cellpadding="0" cellspacing="0" border="0"><tr><td align="center" valign="middle" width="38" height="30" bgcolor="#F3F4F6" style="background:#F3F4F6;border-radius:7px;font-family:'DM Sans',Helvetica,Arial,sans-serif;font-size:9px;font-weight:700;letter-spacing:0.5px;color:#6B7280;">PDF</td></tr></table></td>
+  <td valign="top" style="font-family:'DM Sans',Helvetica,Arial,sans-serif;font-size:14px;line-height:20px;color:#374151;"><b style="color:#1B3A5C;">CIMS Mission and Values</b><br><span style="font-size:13px;color:#6B7280;">What we stand for, one page.</span></td>
  </tr></table></td></tr>
  <tr><td style="padding:8px 0;">
  <table role="presentation" width="100%" cellpadding="0" cellspacing="0" border="0"><tr>
-  <td width="40" valign="top"><table role="presentation" cellpadding="0" cellspacing="0" border="0"><tr><td align="center" valign="middle" width="30" height="30" bgcolor="#EAF4E6" style="background:#EAF4E6;border-radius:7px;font-family:'DM Sans',Helvetica,Arial,sans-serif;font-size:9px;font-weight:700;letter-spacing:0.5px;color:#3E7F2E;">XLS</td></tr></table></td>
-  <td valign="top" style="font-family:'DM Sans',Helvetica,Arial,sans-serif;font-size:14px;line-height:20px;color:#374151;"><b style="color:#1B3A5C;">Expense Report Template</b><br><span style="font-size:13px;color:#6B7280;">Travel receipts? Fill it in, send to maryjoy.manzanares@dg3.com. Paid in the next payroll. Rates: xe.com.</span></td>
+  <td width="56" valign="top"><table role="presentation" cellpadding="0" cellspacing="0" border="0"><tr><td align="center" valign="middle" width="38" height="30" bgcolor="#EAF4E6" style="background:#EAF4E6;border-radius:7px;font-family:'DM Sans',Helvetica,Arial,sans-serif;font-size:9px;font-weight:700;letter-spacing:0.5px;color:#3E7F2E;">XLS</td></tr></table></td>
+  <td valign="top" style="font-family:'DM Sans',Helvetica,Arial,sans-serif;font-size:14px;line-height:20px;color:#374151;"><b style="color:#1B3A5C;">Expense Report Template</b><br><span style="font-size:13px;color:#6B7280;">Receipts + report, paid next payroll (xe.com rates)<br>maryjoy.manzanares@dg3.com</span></td>
  </tr></table></td></tr>
  <tr><td style="padding:8px 0;">
  <table role="presentation" width="100%" cellpadding="0" cellspacing="0" border="0"><tr>
-  <td width="40" valign="top"><table role="presentation" cellpadding="0" cellspacing="0" border="0"><tr><td align="center" valign="middle" width="30" height="30" bgcolor="#F3F4F6" style="background:#F3F4F6;border-radius:7px;font-family:'DM Sans',Helvetica,Arial,sans-serif;font-size:9px;font-weight:700;letter-spacing:0.5px;color:#6B7280;">WWW</td></tr></table></td>
+  <td width="56" valign="top"><table role="presentation" cellpadding="0" cellspacing="0" border="0"><tr><td align="center" valign="middle" width="38" height="30" bgcolor="#F3F4F6" style="background:#F3F4F6;border-radius:7px;font-family:'DM Sans',Helvetica,Arial,sans-serif;font-size:9px;font-weight:700;letter-spacing:0.5px;color:#6B7280;">LINK</td></tr></table></td>
   <td valign="top" style="font-family:'DM Sans',Helvetica,Arial,sans-serif;font-size:14px;line-height:20px;color:#374151;"><a href="https://support.onboardprint.com/hc/en-us/articles/8731895883805-RCCL-Printer-Specialist" style="color:#1B3A5C;font-weight:700;text-decoration:none;">Your Job Description</a><br><span style="font-size:13px;color:#6B7280;">On Zendesk. Read it this week.</span></td>
  </tr></table></td></tr>
  <tr><td style="padding:8px 0;">
  <table role="presentation" width="100%" cellpadding="0" cellspacing="0" border="0"><tr>
-  <td width="40" valign="top"><table role="presentation" cellpadding="0" cellspacing="0" border="0"><tr><td align="center" valign="middle" width="30" height="30" bgcolor="#F3F4F6" style="background:#F3F4F6;border-radius:7px;font-family:'DM Sans',Helvetica,Arial,sans-serif;font-size:9px;font-weight:700;letter-spacing:0.5px;color:#6B7280;">WWW</td></tr></table></td>
-  <td valign="top" style="font-family:'DM Sans',Helvetica,Arial,sans-serif;font-size:14px;line-height:20px;color:#374151;"><a href="#LINK-sops" style="color:#1B3A5C;font-weight:700;text-decoration:none;">Standard Operating Procedures</a><br><span style="font-size:13px;color:#6B7280;">Every SOP, in one place.</span></td>
+  <td width="56" valign="top"><table role="presentation" cellpadding="0" cellspacing="0" border="0"><tr><td align="center" valign="middle" width="38" height="30" bgcolor="#F3F4F6" style="background:#F3F4F6;border-radius:7px;font-family:'DM Sans',Helvetica,Arial,sans-serif;font-size:9px;font-weight:700;letter-spacing:0.5px;color:#6B7280;">LINK</td></tr></table></td>
+  <td valign="top" style="font-family:'DM Sans',Helvetica,Arial,sans-serif;font-size:14px;line-height:20px;color:#374151;"><a href="#LINK-sops" style="color:#1B3A5C;font-weight:700;text-decoration:none;">Standard Operating Procedures</a><br><span style="font-size:13px;color:#6B7280;">Every SOP, one place.</span></td>
  </tr></table></td></tr>
 </table></td></tr>
 <tr><td class="px" style="padding:14px 32px 0 32px;">
